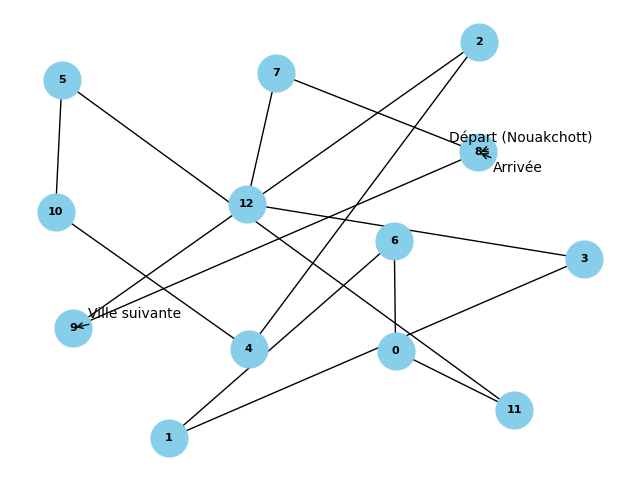
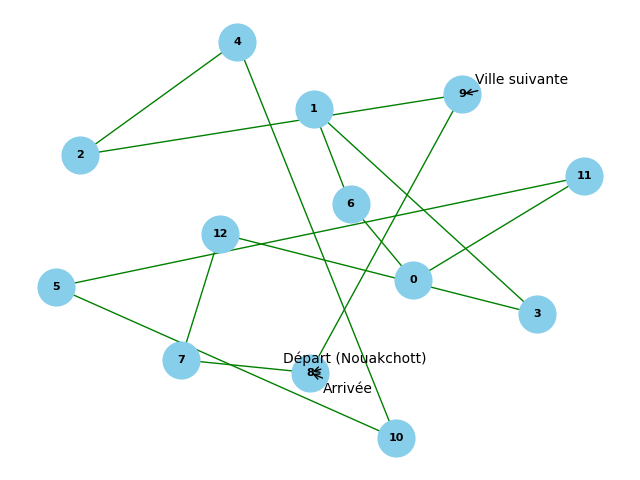
stylt

diff --git a/defi/templates/import_excel.html b/defi/templates/import_excel.html
@@ -1,59 +1,44 @@
 <!DOCTYPE html>
-<html lang="fr">
+<html lang="en">
 <head>
     <meta charset="UTF-8">
     <meta name="viewport" content="width=device-width, initial-scale=1.0">
     <title>Importation de fichier Excel</title>
+    {% load static %}
+    <!-- Ajouter le lien vers Bootstrap CSS -->
+    <link rel="stylesheet" href="https://stackpath.bootstrapcdn.com/bootstrap/4.5.2/css/bootstrap.min.css">
     <style>
-        body {
-            font-family: Arial, sans-serif;
-            background-color: #f0f0f0;
-            margin: 0;
-            padding: 0;
-            display: flex;
-            justify-content: center;
-            align-items: center;
-            height: 100vh;
-        }
-        .container {
-            background-color: #fff;
-            padding: 20px;
-            border-radius: 10px;
-            box-shadow: 0 0 10px rgba(0, 0, 0, 0.1);
-        }
-        h1 {
-            color: #4CAF50;
-            text-align: center;
-        }
-        form {
-            display: flex;
-            flex-direction: column;
-            align-items: center;
-        }
-        input[type="file"] {
-            margin-bottom: 10px;
-        }
-        input[type="submit"] {
-            background-color: #4CAF50;
-            color: white;
-            padding: 10px 20px;
-            border: none;
-            border-radius: 5px;
-            cursor: pointer;
-        }
-        input[type="submit"]:hover {
-            background-color: #45a049;
+        .custom-container {
+            width: 50%; /* Réduction de la largeur de la page */
+            margin: 0 auto; /* Centrer le contenu */
+            box-shadow: 0px 0px 10px rgba(0, 0, 0, 0.1); /* Ajouter une ombre portée */
+            padding: 20px; /* Ajouter un espacement intérieur */
         }
     </style>
 </head>
 <body>
-    <div class="container">
-        <h1>Importation de fichier Excel</h1>
+    <div class="container custom-container mt-5">
+        <h1 class="mb-4 bg-success text-white p-3">Importation de fichier Excel</h1>
         <form method="post" enctype="multipart/form-data" action="{% url 'importer_fichier_excel' %}">
             {% csrf_token %}
-            <input type="file" name="fichier_excel" accept=".xlsx, .xls">
-            <input type="submit" value="Importer">
+            <div class="custom-file mb-3">
+                <input type="file" class="custom-file-input" id="customFile" name="fichier_excel" accept=".xlsx, .xls" onchange="updateFileName()">
+                <label class="custom-file-label" for="customFile" id="customFileLabel">Choisir un fichier Excel</label>
+            </div>
+            <button type="submit" class="btn btn-primary">Importer</button>
         </form>
     </div>
+
+    <!-- Ajouter le lien vers Bootstrap JS (facultatif, pour certaines fonctionnalités avancées de Bootstrap) -->
+    <script src="https://stackpath.bootstrapcdn.com/bootstrap/4.5.2/js/bootstrap.min.js"></script>
+    
+    <script>
+        function updateFileName() {
+            var input = document.getElementById('customFile');
+            var label = document.getElementById('customFileLabel');
+            var fileName = input.files[0].name;
+            label.innerHTML = fileName;
+        }
+    </script>
 </body>
 </html>

diff --git a/defi/templates/result.html b/defi/templates/result.html
@@ -28,7 +28,7 @@
         </div>
       
         <!-- Contenu principal -->
-        <div class="card text-white border-0 mt-5 w-100 border-custom">
+        <div class="card text-white border-0 mt-4  w-100 border-custom" style="box-shadow: 0px 0px 10px rgba(0, 0, 0, 0.1); max-height: 600px;">
           <div class="card-body bg-light">
               <h4 class="card-title bg-success text-center">Itinéraire Optimal en Mauritanie <br> Villes optimales </h4>
               <!-- <h2 class="card-subtitle mb-4 bg-success"></h2> -->

diff --git a/defi/views.py b/defi/views.py
@@ -75,18 +75,19 @@ def approximation_algorithm(request):
 
     # Affichage du graphe avec les noms des villes
     pos = nx.spring_layout(G)
-    nx.draw(optimal_subgraph, pos, with_labels=True, node_size=700, node_color='skyblue', font_size=8, font_weight='bold')
+    nx.draw(optimal_subgraph, pos, with_labels=True, node_size=700, node_color='skyblue', font_size=8, font_weight='bold',
+            edge_color='green')  # Changer la couleur de la ligne en vert
 
     # Annoter le point de départ (Nouakchott) et le point d'arrivée
     plt.annotate('Départ (Nouakchott)', xy=pos[depart], xytext=(pos[depart][0]-0.1, pos[depart][1]+0.05),
                  arrowprops=dict(facecolor='black', arrowstyle='->'))
     plt.annotate('Arrivée', xy=pos[chemin_optimal[-1]], xytext=(pos[chemin_optimal[-1]][0]+0.05, pos[chemin_optimal[-1]][1]-0.1),
-                 arrowprops=dict(facecolor='black', arrowstyle='->'))
+                 arrowprops=dict(facecolor='blue', arrowstyle='->'))
 
     # Ajouter une flèche pour afficher le prochain ville
     prochain_ville_index = (chemin_optimal[1] if len(chemin_optimal) > 1 else chemin_optimal[0])
     plt.annotate('Ville suivante', xy=pos[prochain_ville_index], xytext=(pos[prochain_ville_index][0]+0.05, pos[prochain_ville_index][1]+0.05),
-                 arrowprops=dict(facecolor='black', arrowstyle='->'))
+                 arrowprops=dict(facecolor='blue', arrowstyle='->'))
 
     plt.title('Solution Optimale en Mauritanie')
     plt.axis('off')  # Masquer les axes
